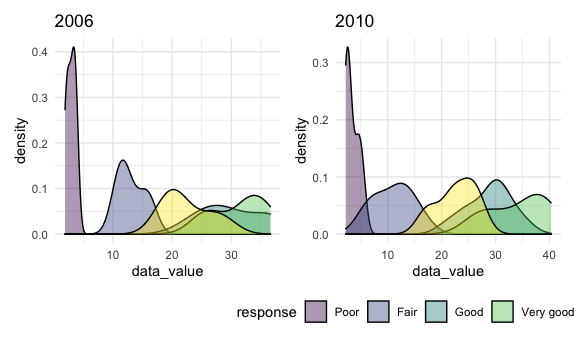
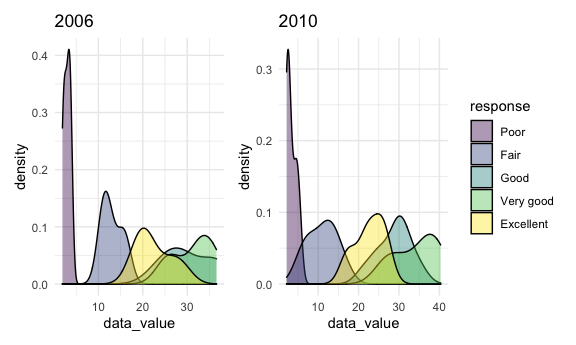
amend the two-panel plot

diff --git a/p8105_hw3_yq2321.md b/p8105_hw3_yq2321.md
@@ -291,7 +291,7 @@ NY_data_value_2006 = brfss_smart_cleaned %>%
 NY_data_value_2010 = brfss_smart_cleaned %>%
   filter(year == 2010, state == "NY") %>%
   ggplot(aes(x = data_value, fill = response)) +
-  geom_density(alpha = .4) + labs(title = "2010")
+  geom_density(alpha = .4) + theme(legend.position = "right") + labs(title = "2010")
 NY_data_value_2006 + NY_data_value_2010
 ```
 
